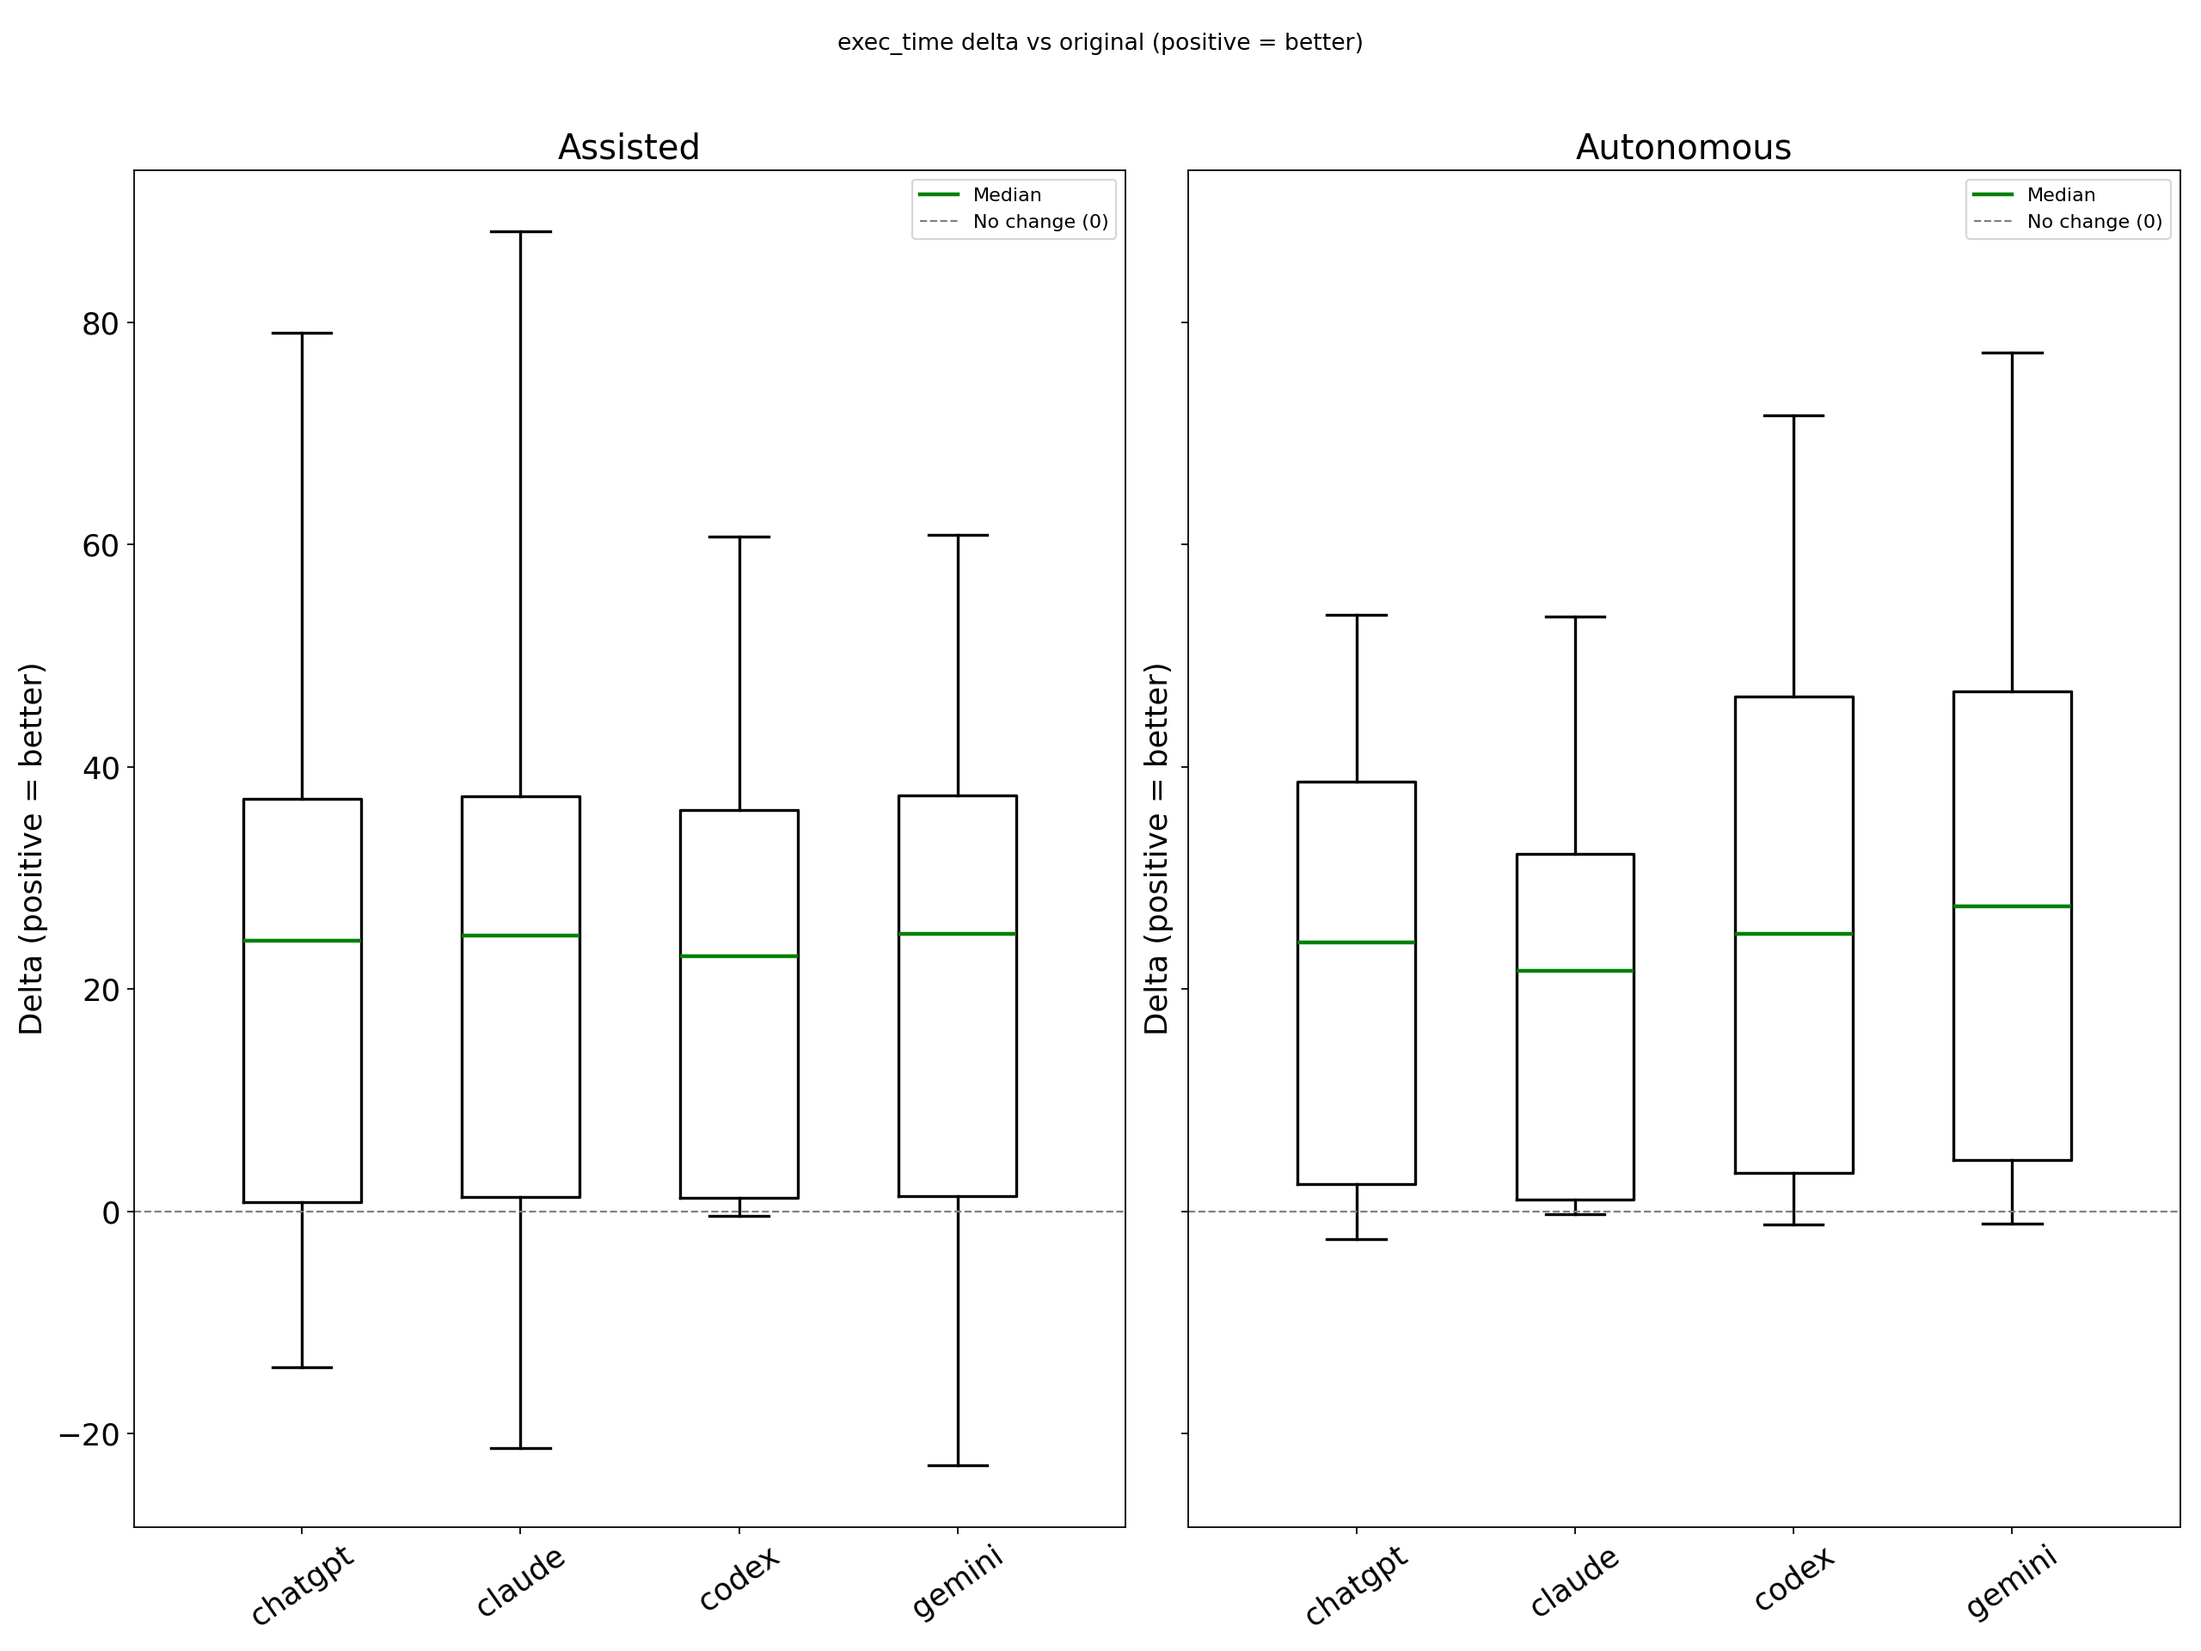
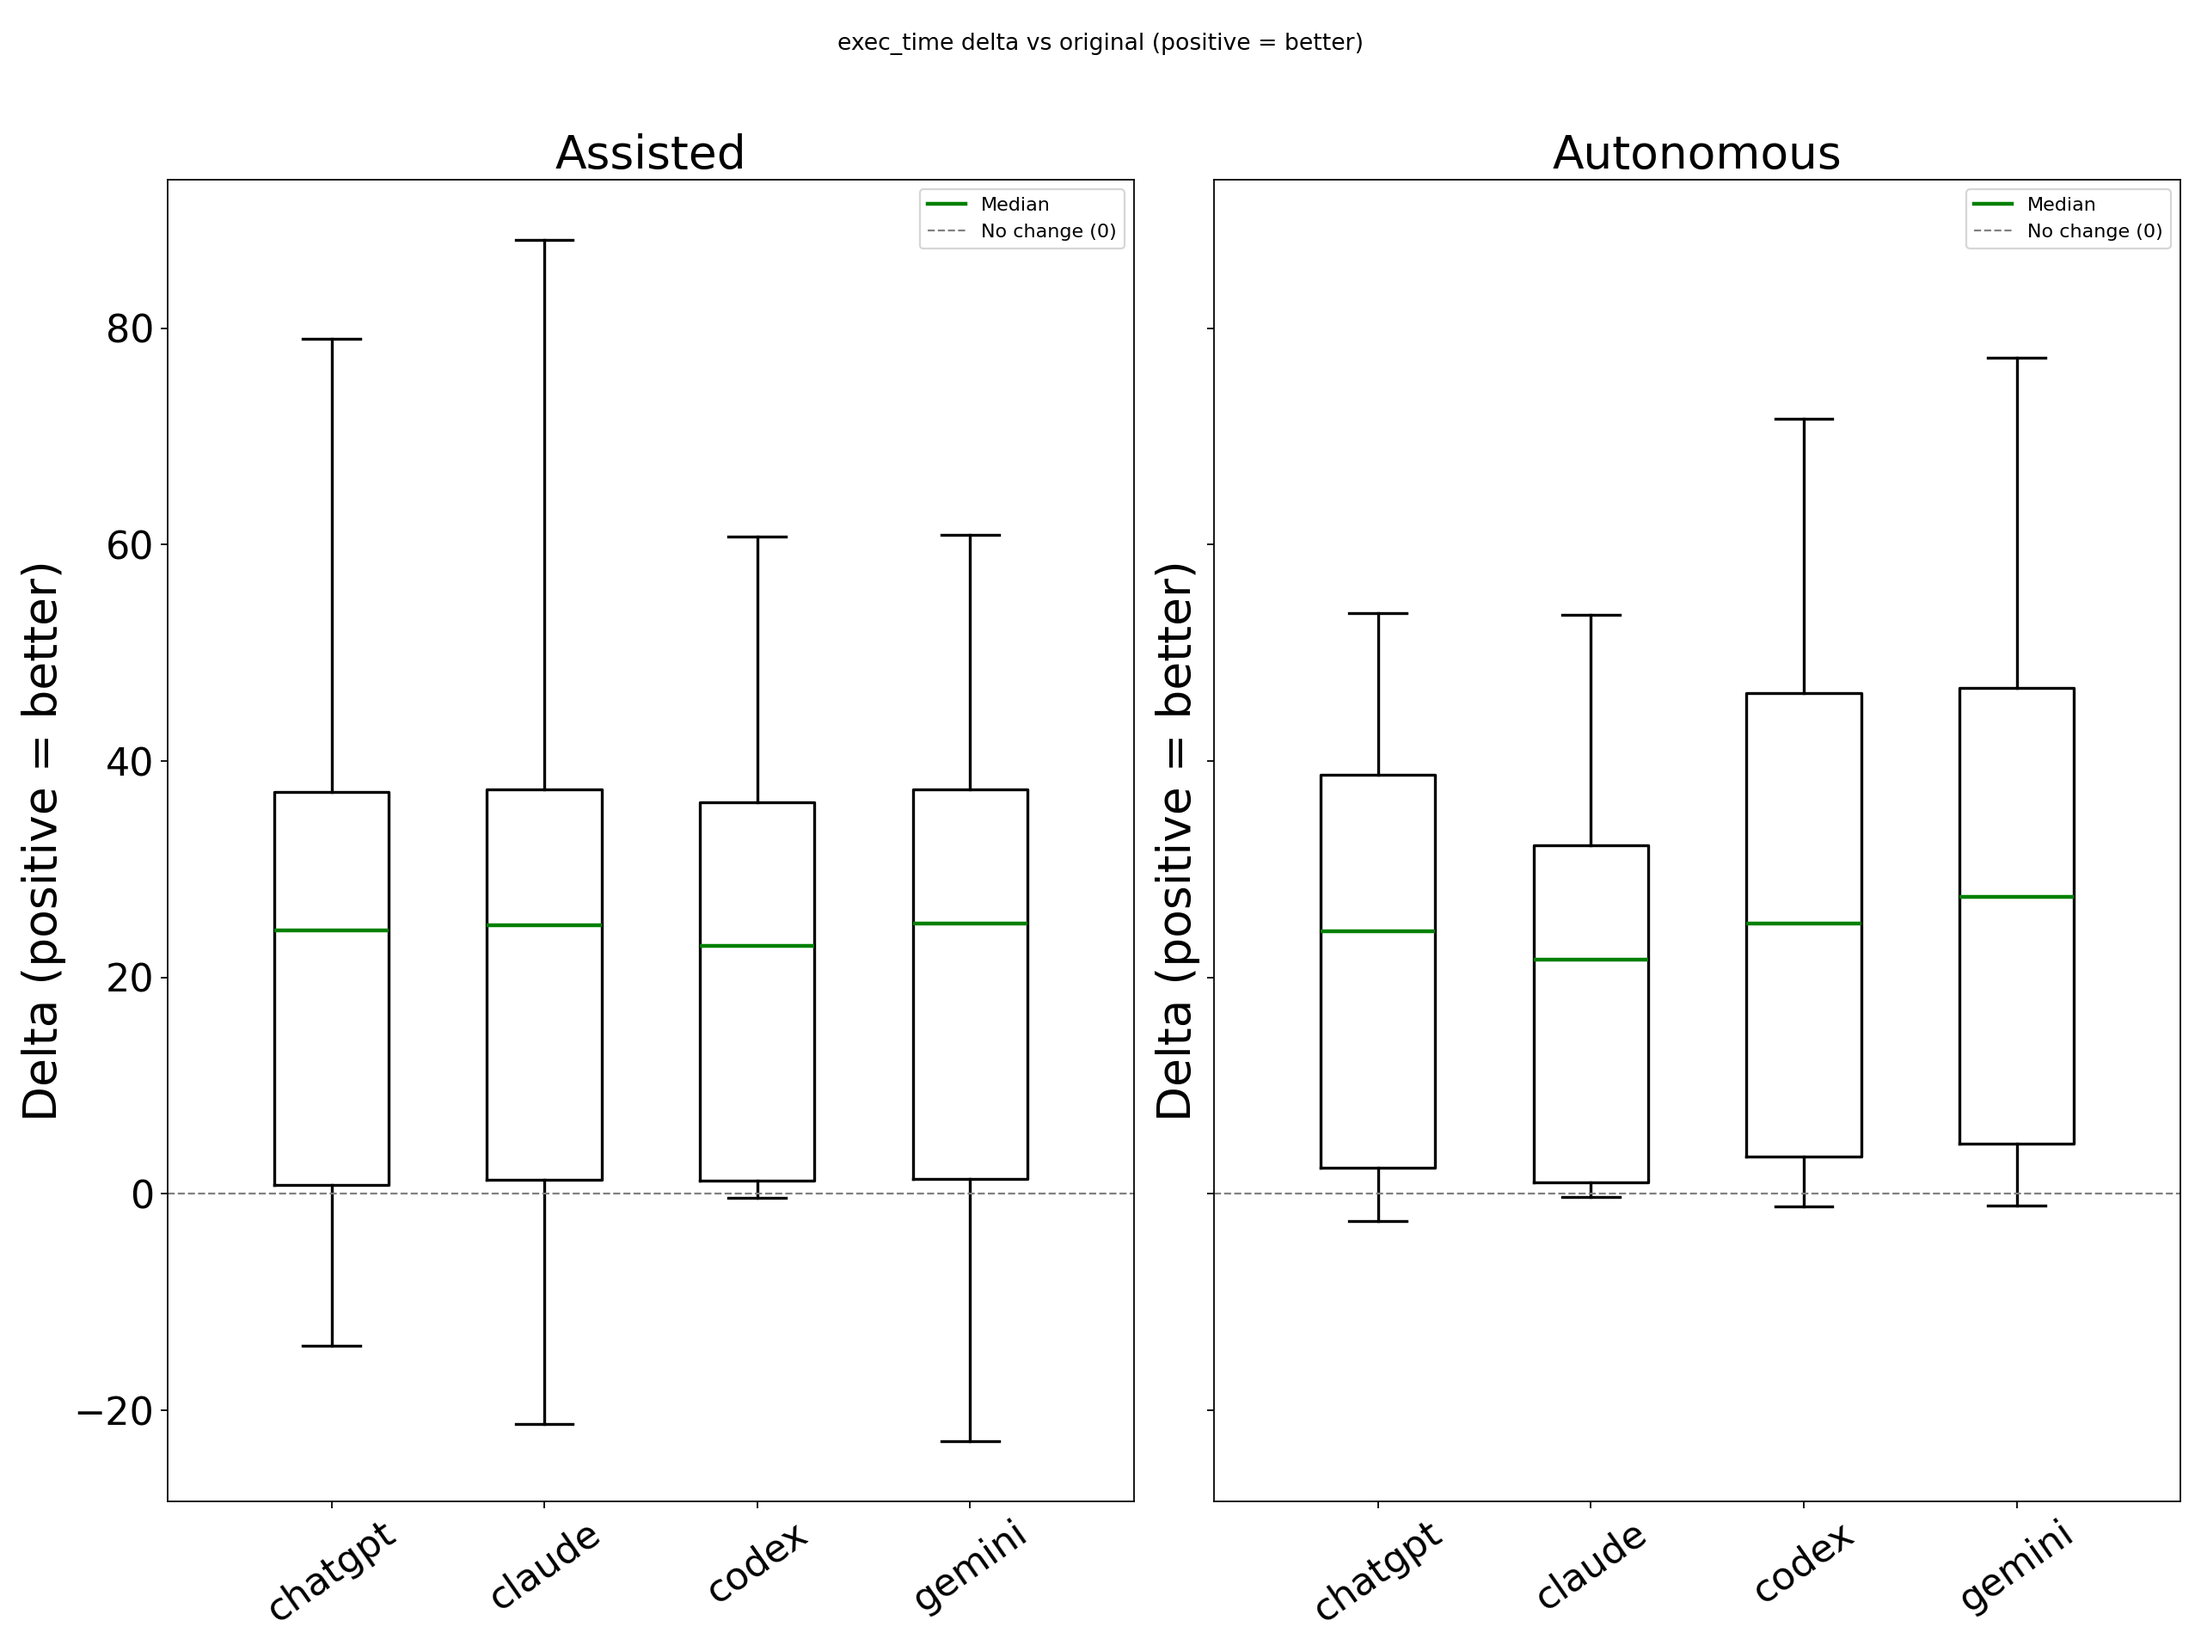
change font sizes

diff --git a/scripts/analyse_results.py b/scripts/analyse_results.py
@@ -9,9 +9,9 @@ REPO_ROOT = Path(__file__).resolve().parent.parent
 RESULTS_DIR = REPO_ROOT / "results"
 METRICS = ("accuracy", "exec_time", "energy")
 MODES = ("assisted", "autonomous")
-AXIS_LABEL_FONTSIZE = 16
-TICK_LABEL_FONTSIZE = 16
-MODE_TITLE_FONTSIZE = 18
+AXIS_LABEL_FONTSIZE = 24
+TICK_LABEL_FONTSIZE = 20
+MODE_TITLE_FONTSIZE = 24
 BOXPLOT_SPACING = 0.65
 BOXPLOT_WIDTH = 0.35
 
